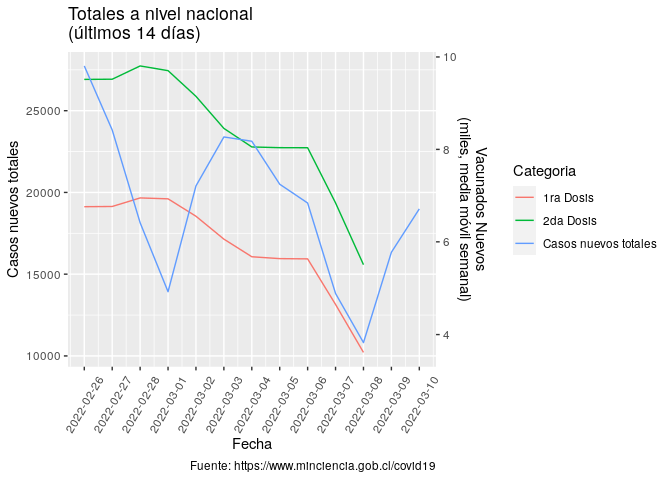
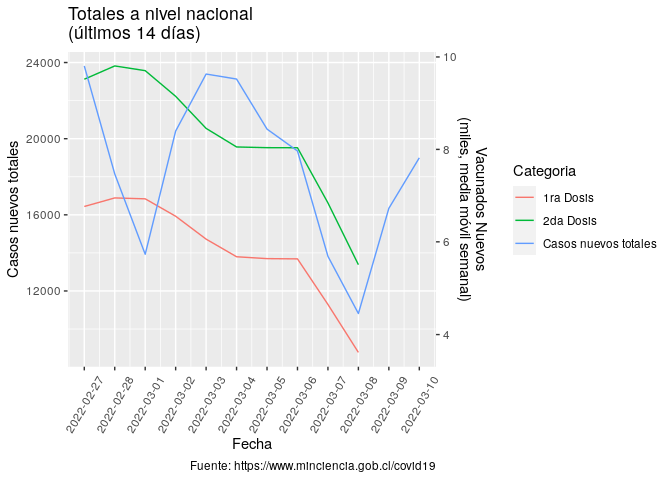
Re-build Rmarkdown files

diff --git a/README.md b/README.md
@@ -3,7 +3,7 @@
 
 Ejemplo de uso de total\_casos de COVID recopilados por el Ministerio de
 Ciencia de Chile <https://www.minciencia.gob.cl/covid19>. Última
-actualización: 2022-03-11
+actualización: 2022-03-12
 
 ## Visualización desde el comienzo de la pandemia
 
